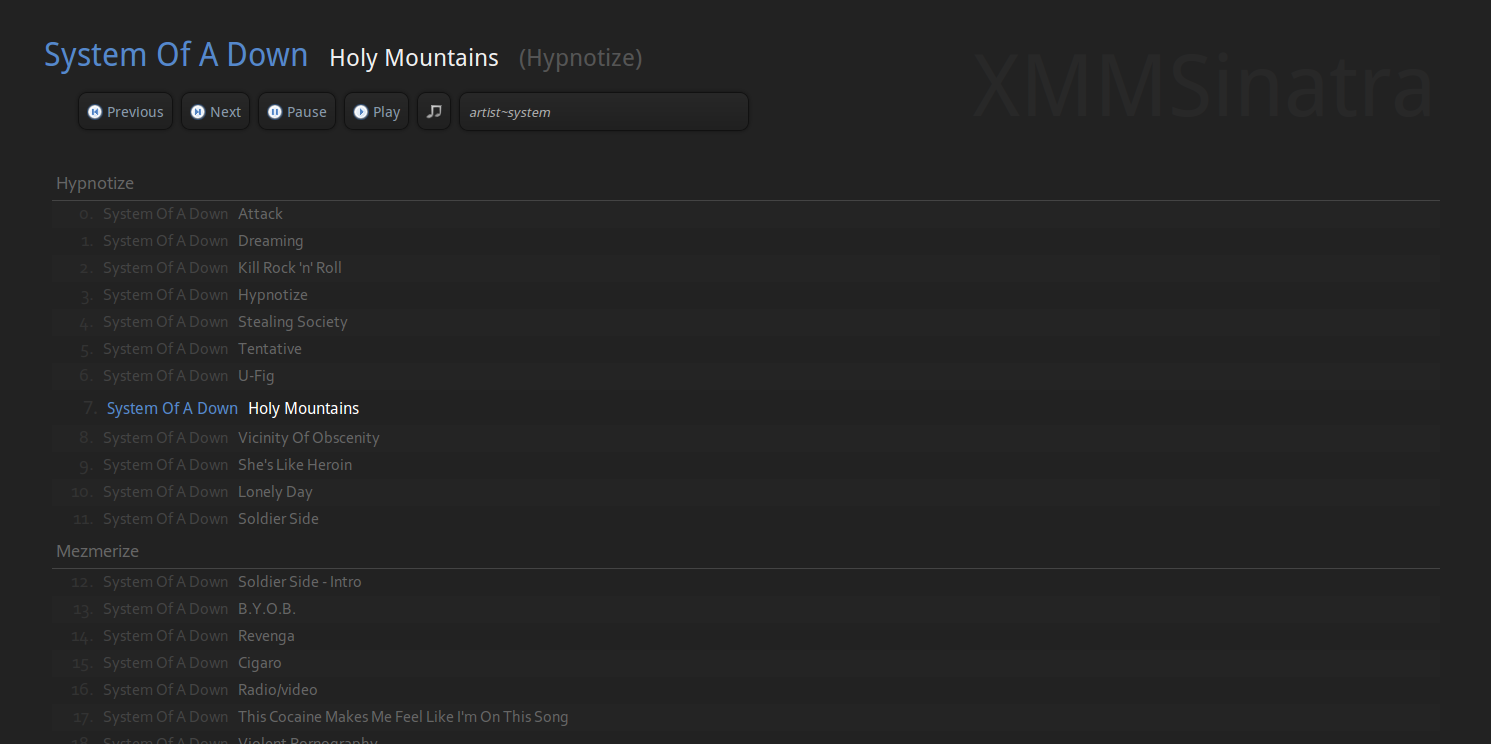
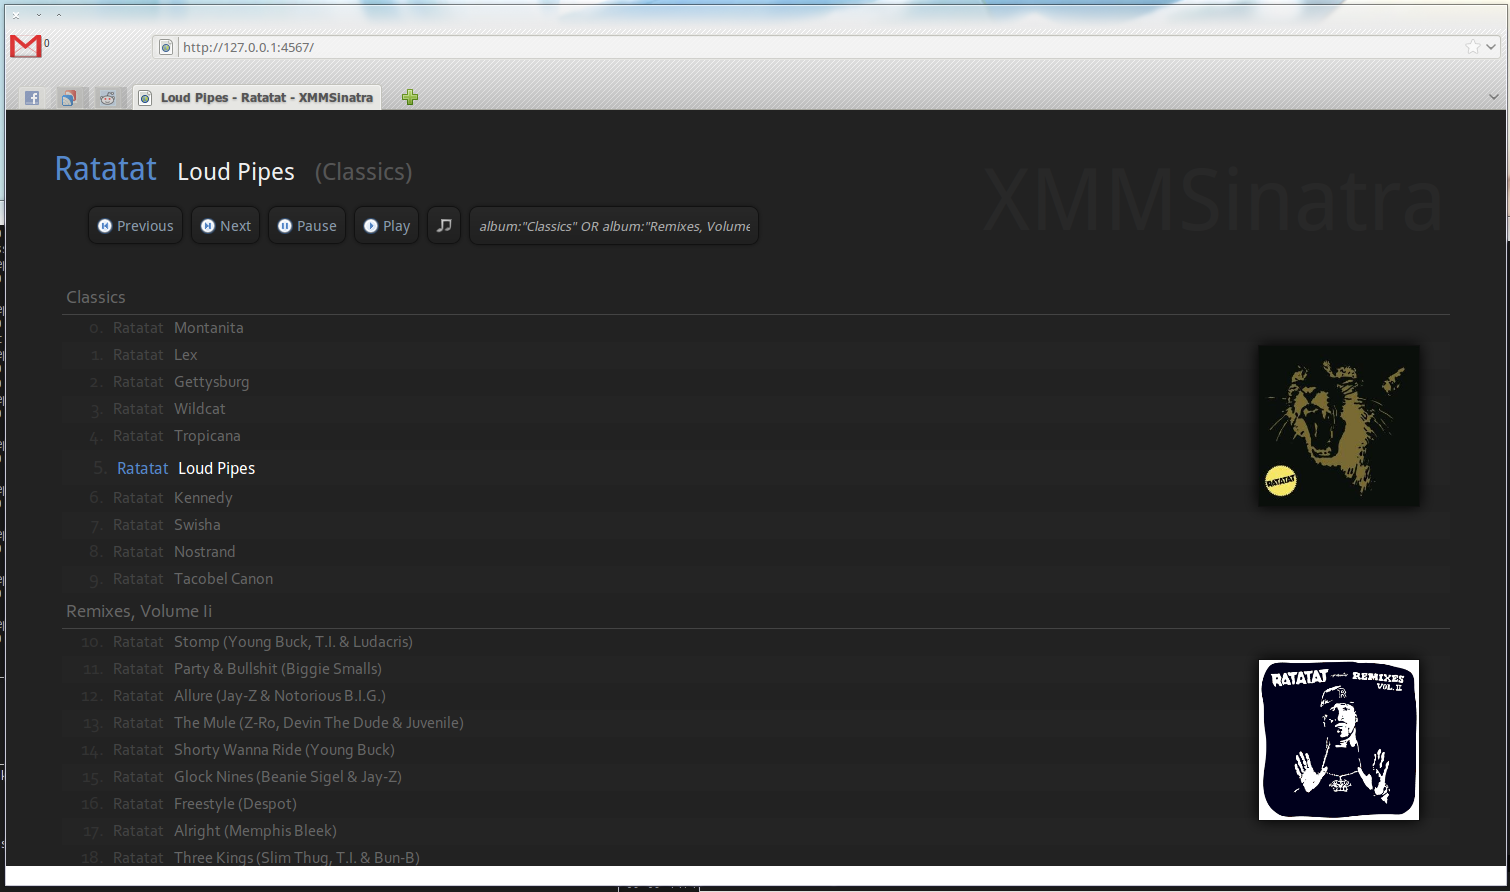
Added Album Art, and window title changing

Changed region(s): [[0.0, 0.0, 1.0, 1.0], [0.833, 0.7419, 0.9564, 0.9274], [0.833, 0.4019, 0.9564, 0.5565]]

diff --git a/xmmsinatra.rb b/xmmsinatra.rb
@@ -12,7 +12,7 @@ end
 get '/style.css' do
         content_type "text/css"
 
-        erb :style
+        File.read('style.css')
 end
 
 get '/info' do
@@ -45,6 +45,18 @@ get '/playlist' do
 
         @body += "]}"
         @body
+end
+
+get '/art/:id' do |id|
+        content_type "image/jpeg"
+
+        @info = xmms.medialib_get_info(id.to_i).wait.value.to_propdict
+
+        if (@info[:picture_front])
+                xmms.bindata_retrieve(@info[:picture_front]).wait.value
+        else
+                File.read('nocover.png')
+        end
 end
 
 get '/search/:query' do |query|
